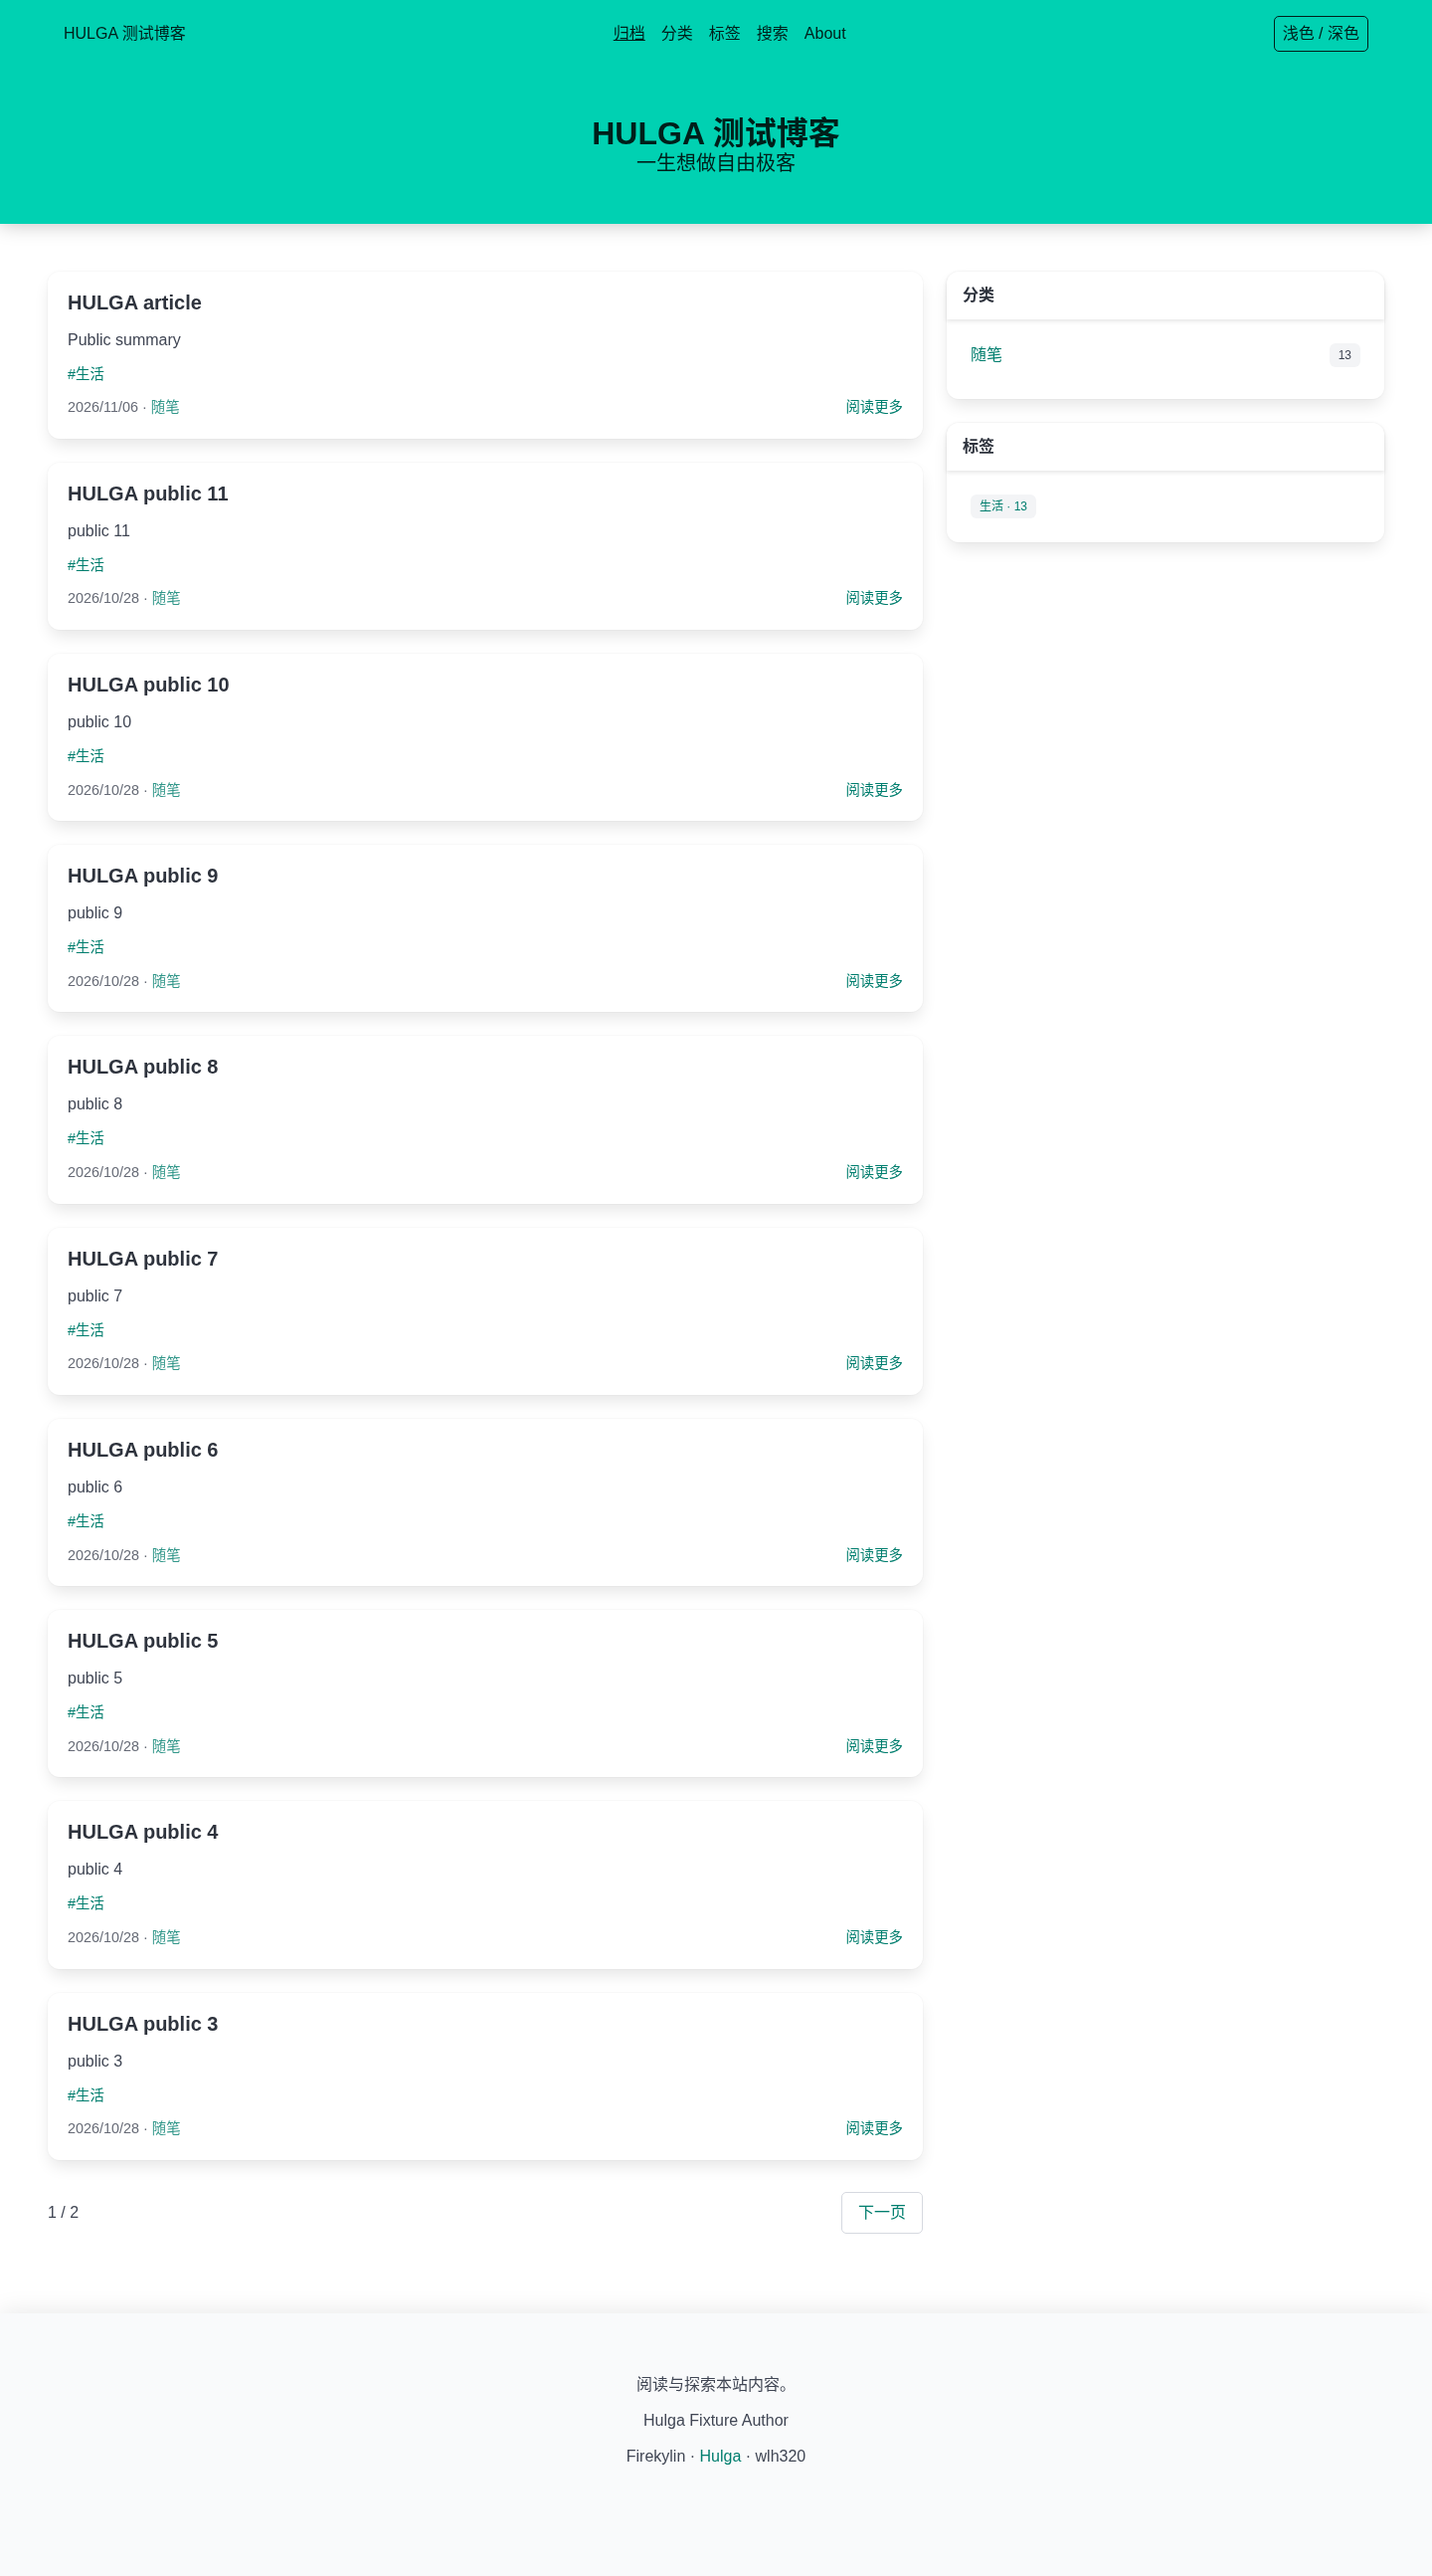
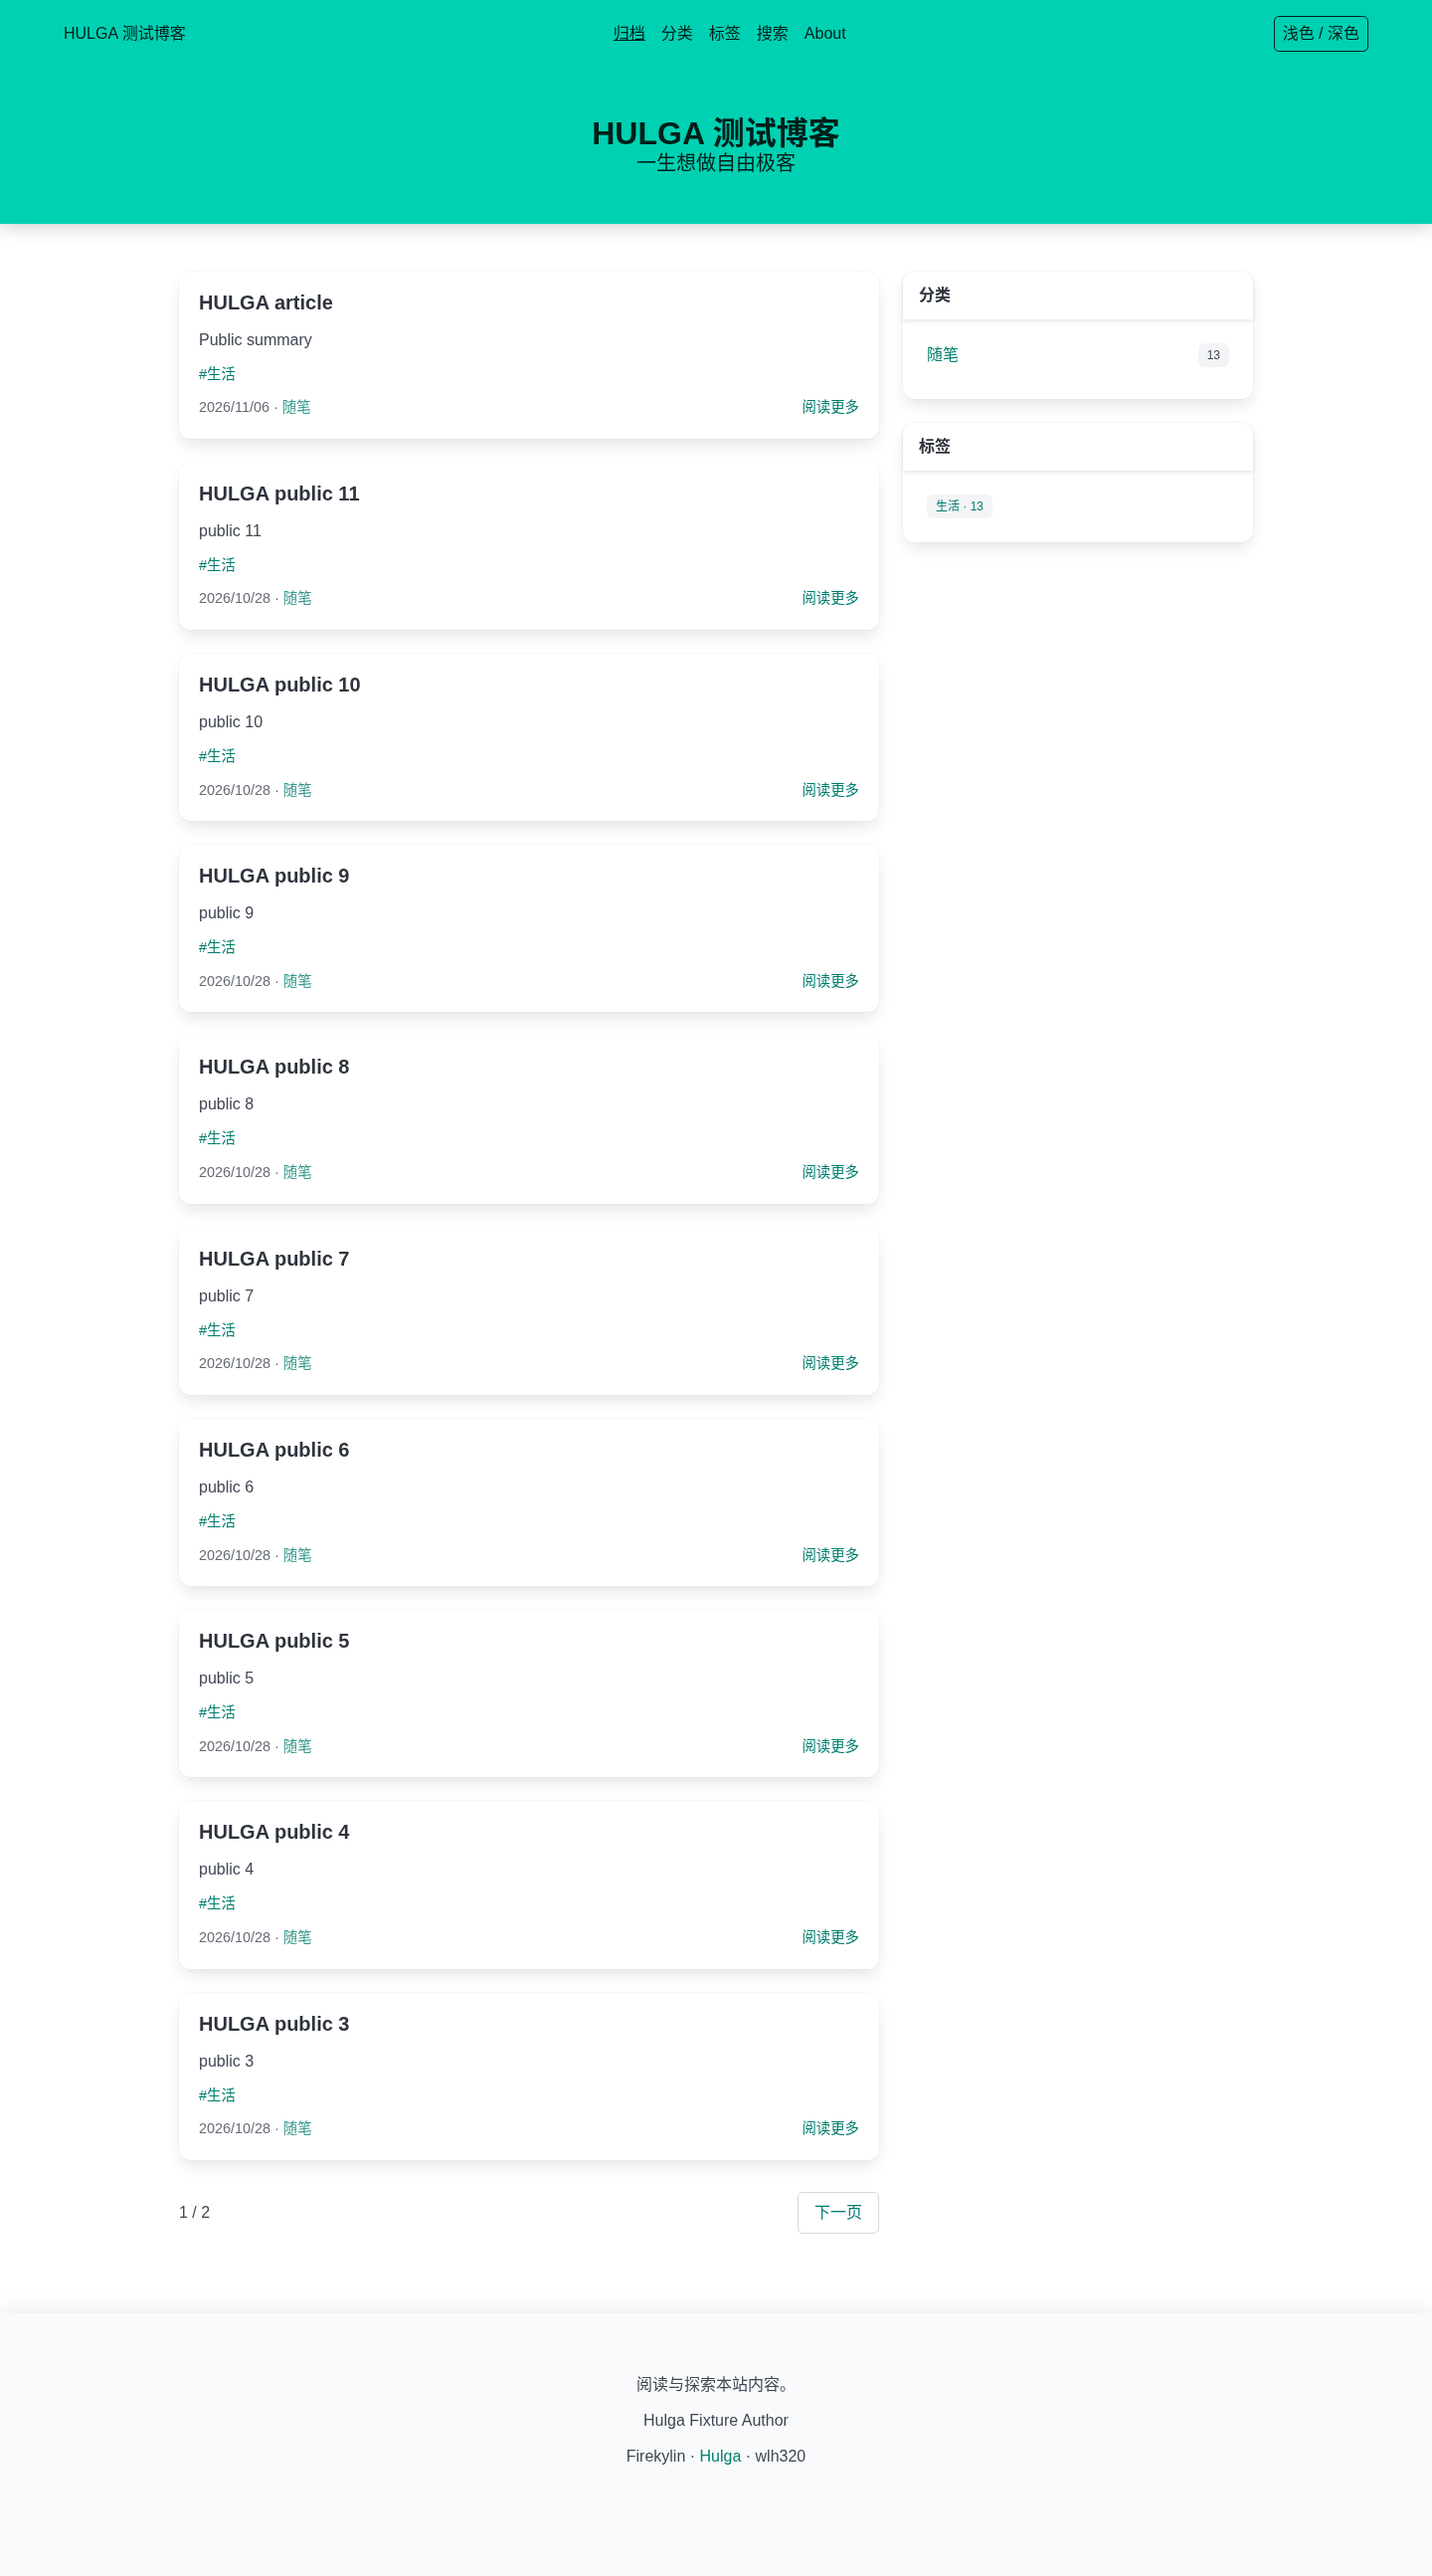
fix: enforce Hulga reading width over Bulma breakpoint rules

diff --git a/packages/hugo-theme-hulga/res/css/theme.css b/packages/hugo-theme-hulga/res/css/theme.css
@@ -9,6 +9,6 @@ body{overflow-wrap:anywhere}.skip{position:absolute;top:-100px}.skip:focus{top:0
 
 :root{--bulma-link-h:171;--bulma-link-s:100%;--bulma-link-l:41%}.hero .native-nav a,.hero .site-name{color:currentColor}.nav-inner{display:flex;align-items:center;justify-content:space-between;gap:1rem;flex-wrap:wrap;padding:1rem}.native-nav{margin:0}.theme-toggle{border:1px solid currentColor;border-radius:5px;padding:.3rem .5rem;background:transparent;color:inherit}.theme-toggle[hidden]{display:none}.native-columns{display:grid;grid-template-columns:minmax(0,2fr) minmax(240px,1fr);gap:1.5rem;max-width:1080px;margin:auto}.post-box-tag a{color:var(--bulma-link-text)}.post-box-meta{gap:1rem;flex-wrap:wrap}.post-box-title{margin-bottom:.75rem}.post-box-tags{margin:.75rem 0;display:flex;flex-wrap:wrap;gap:.5rem}.taxonomy-sidebar .card{margin-bottom:1.5rem}.sidebar-meta{display:flex;justify-content:space-between;gap:.5rem;margin-bottom:.5rem}.sidebar-tags{display:flex;flex-wrap:wrap;gap:.5rem}.article-grid{display:grid;grid-template-columns:minmax(0,780px) 220px;gap:2rem;justify-content:center}.article-grid>*{min-width:0}.article-toc{position:sticky;top:2rem;align-self:start;padding:1rem;border-left:2px solid var(--bulma-border)}.toc-list .nested{margin-left:1rem}.post-detail{min-width:0}.post-hero-meta{margin-top:1rem}.post-footer{margin:2rem 0}.prose pre{white-space:pre;box-sizing:border-box}.prose pre code{display:block;white-space:pre;width:max-content;min-width:100%}.prose table{display:table;width:100%;table-layout:fixed}.prose td,.prose th{overflow-wrap:anywhere;padding:.5rem}.prose audio{height:54px}.prose p,.prose ul,.prose ol{margin:1rem 0}.prose ul,.prose ol{padding-left:1.5rem}.prose h2,.prose h3,.prose h4{margin:2rem 0 1rem;font-weight:600}.prose h2{font-size:1.6rem}.prose h3{font-size:1.4rem}.prose h4{font-size:1.2rem}.native-wrap{max-width:1000px;margin:auto;padding:3rem 1.5rem}.native-wrap h1{font-size:2rem;margin-bottom:2rem}.footer p{margin:.75rem 0}.pagination{flex-wrap:wrap}.pagination a{border:1px solid var(--bulma-border);padding:.5rem 1rem;border-radius:5px}.skip:focus{background:var(--bulma-scheme-main);padding:.5rem;z-index:30}input,button{background:var(--bulma-scheme-main);color:var(--bulma-text);padding:.4rem .6rem;border:1px solid var(--bulma-border);border-radius:5px}.prose a{color:var(--bulma-link-text)}@media(max-width:768px){.native-columns,.article-grid{grid-template-columns:1fr}.taxonomy-sidebar{display:none}.article-toc{position:static;border-left:0;border-top:1px solid var(--bulma-border)}.section{padding:2rem 1rem}.hero-body{padding:2rem 1.5rem}.nav-inner{align-items:flex-start}.native-nav{font-size:.9rem}.title{overflow-wrap:anywhere}}@media(prefers-reduced-motion:reduce){*{scroll-behavior:auto;transition:none!important}}
 
-.container.native-columns{max-width:1080px}
+#main .container.native-columns{max-width:1080px}
 
 html:not([data-theme=dark]) main a:not(.title),html:not([data-theme=dark]) .footer a{color:#007e6e}html[data-theme=dark] main a:not(.title),html[data-theme=dark] .footer a{color:#7aebd9}
